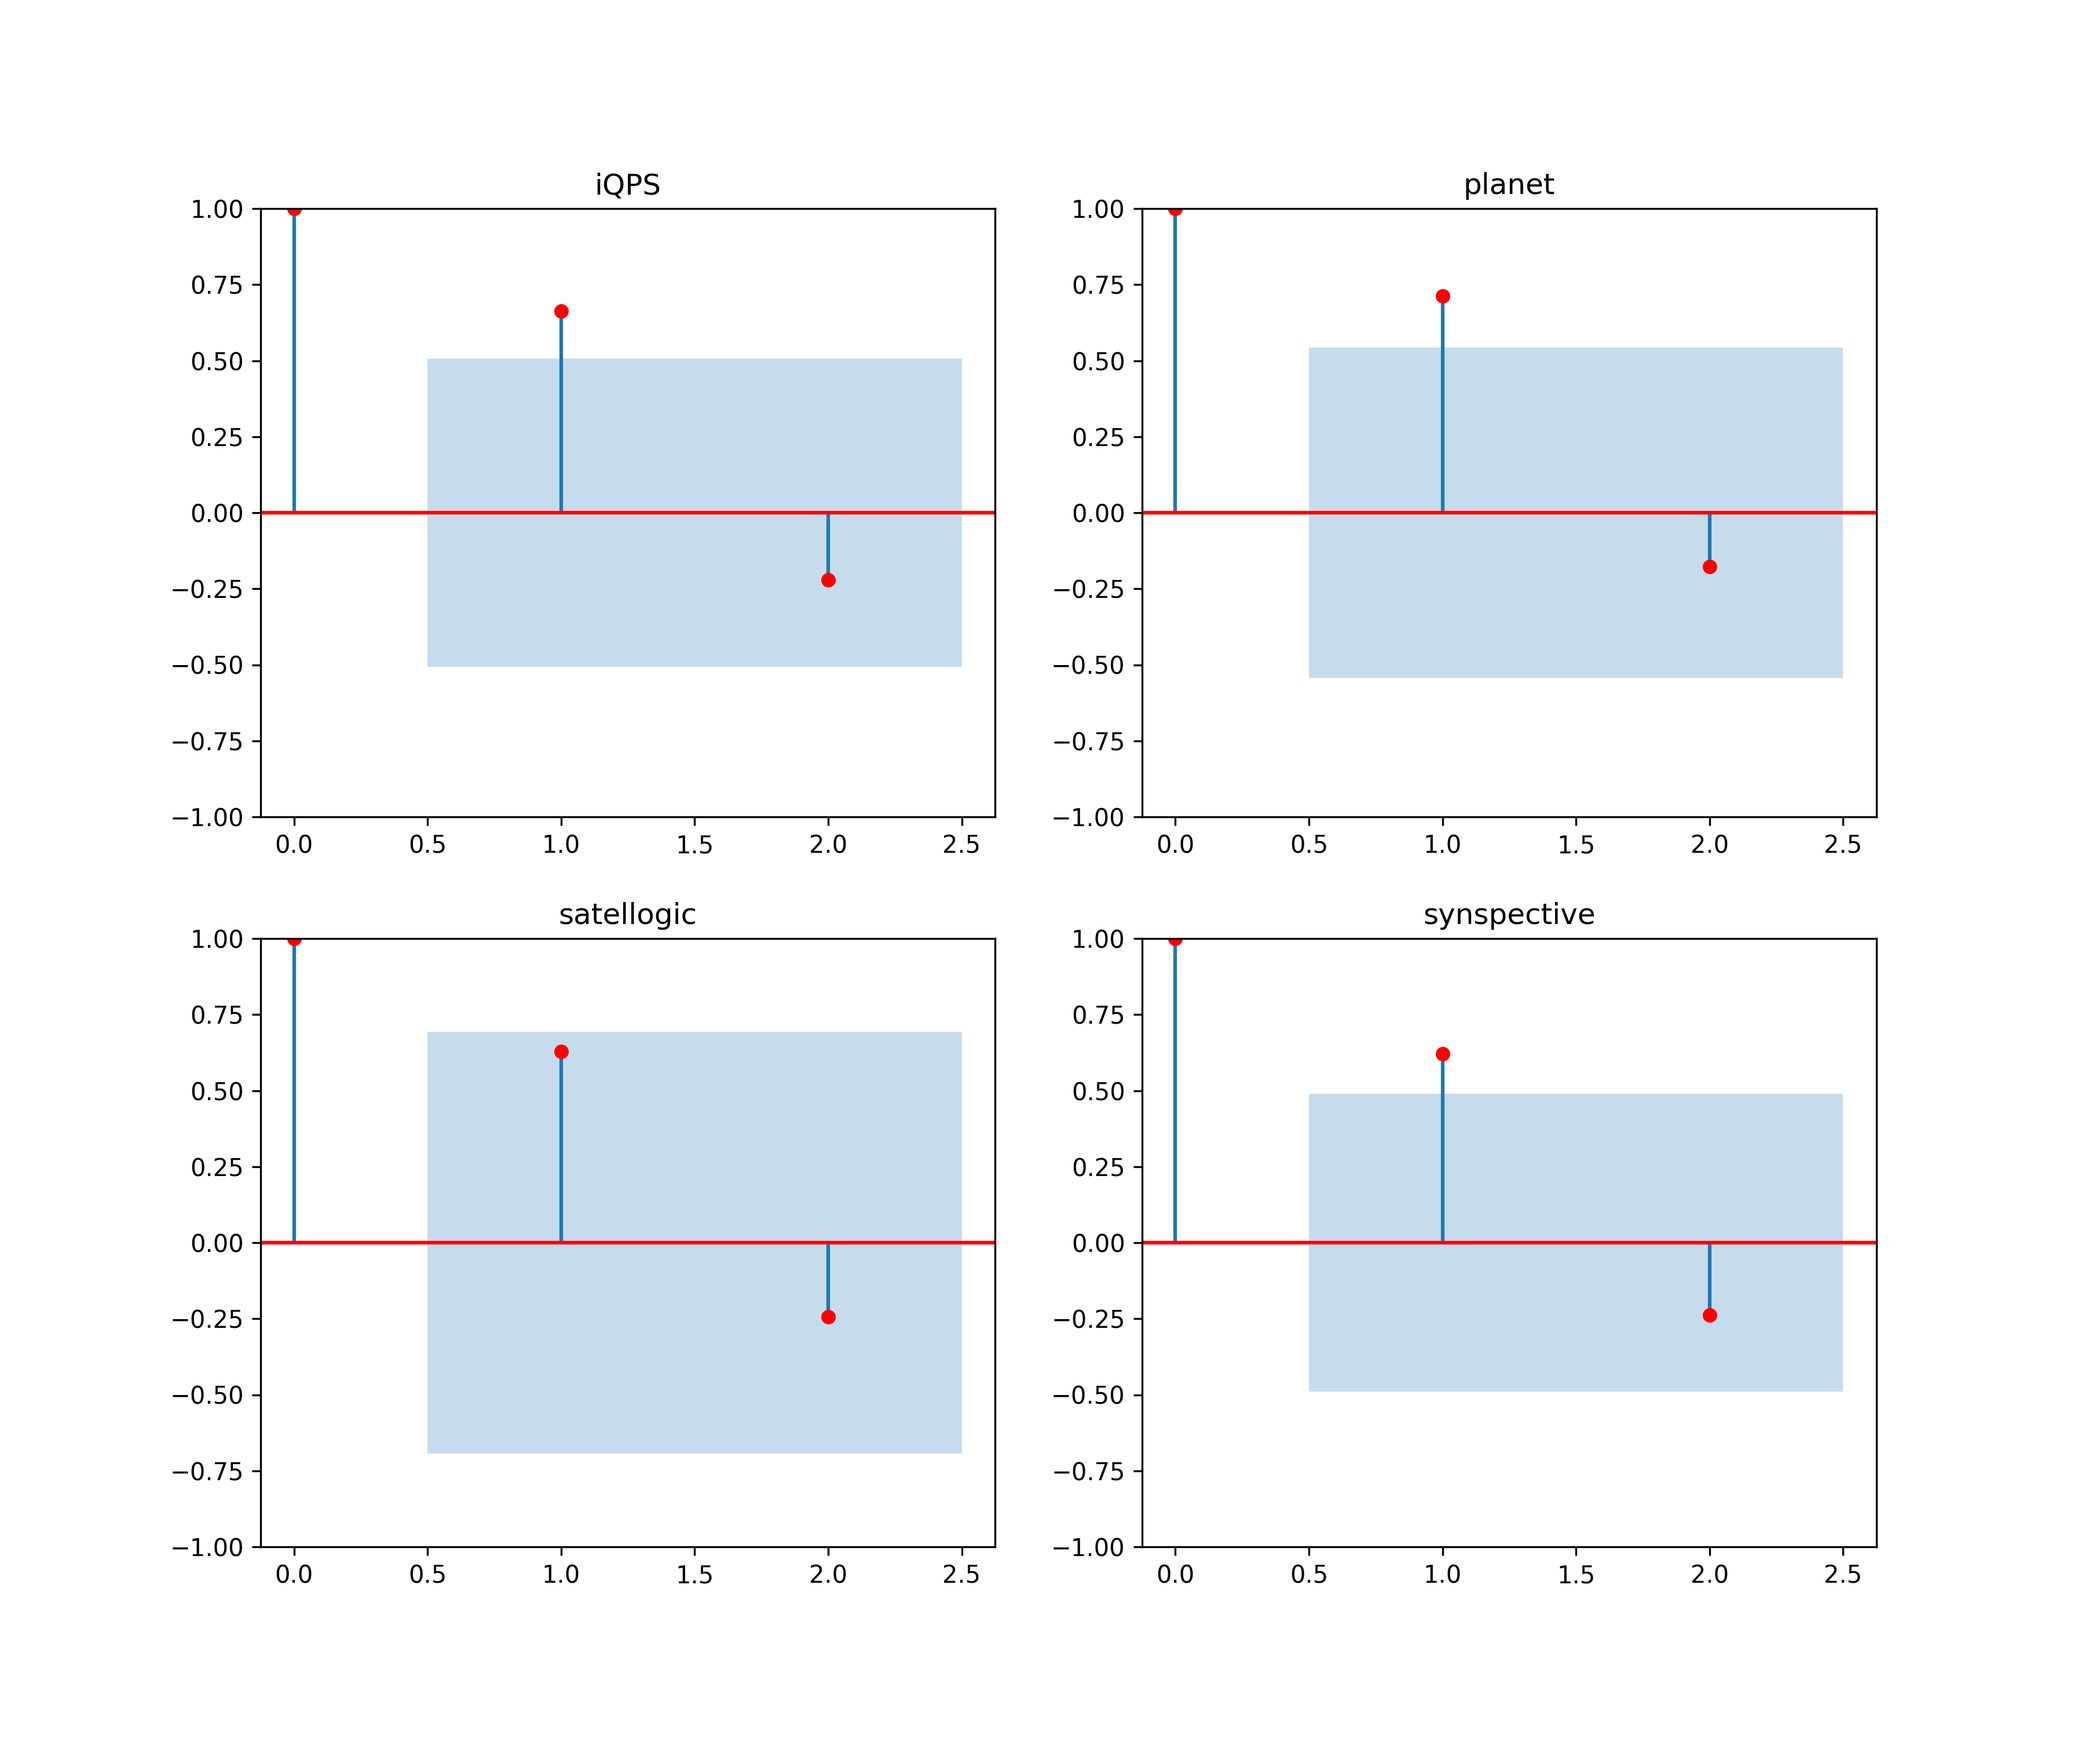
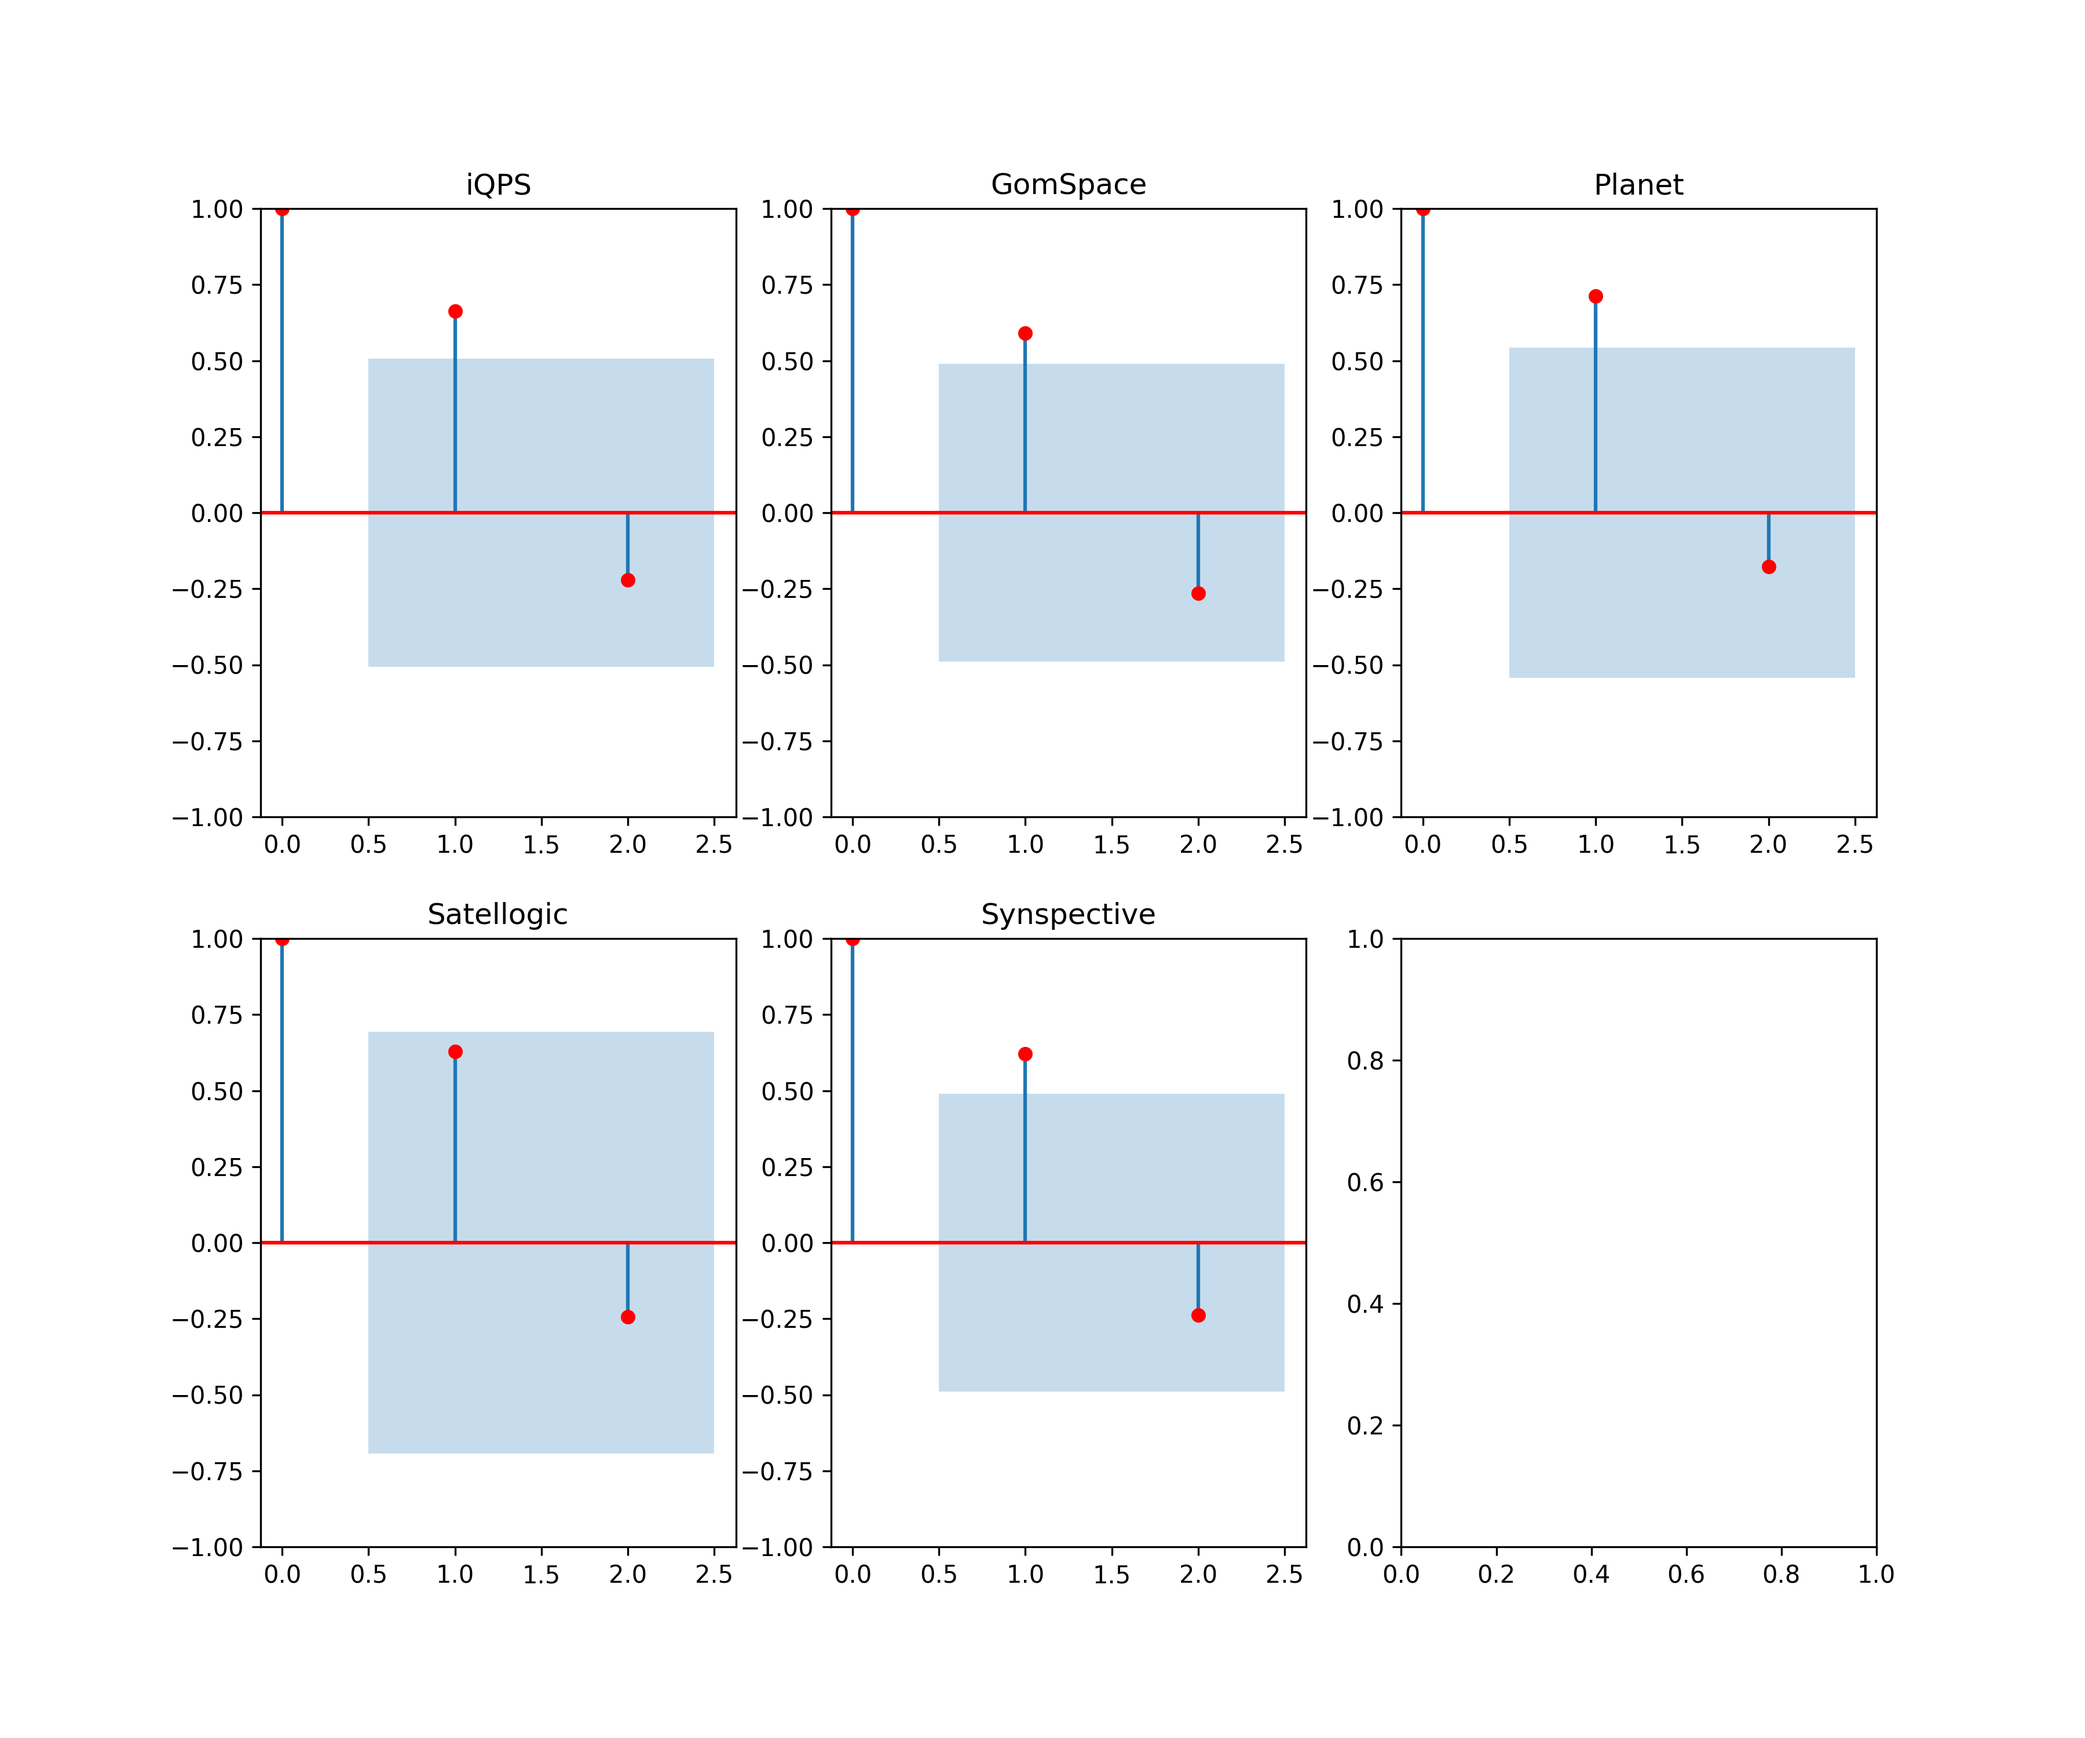
[ADD] update all figures with GomSpace data

diff --git a/src/process.py b/src/process.py
@@ -49,7 +49,7 @@ def transform_financial_metrics(company, filtered_data):
         "diffLogLiabilities": diffLogLiabilities,
         "diffLogEquity": diffLogEquity
     }
-    if company == "synspective":
+    if company == "Synspective":
             print("Not enough revenue data")
     else:
         revenue = filtered_data["Revenue"].values.astype(int)
@@ -77,18 +77,18 @@ exchange_rate_file = './financial_data/dollar-yen-exchange-rate-history.csv'
 exchange_rate = pd.read_csv(exchange_rate_file, header=None, names=['Date', 'Value'])
 exchange_rate['Date'] = pd.to_datetime(exchange_rate['Date'])
 
-fig1, ax1 = plt.subplots(2, 2, figsize=(12, 10), dpi=300)
-fig2, ax2 = plt.subplots(2, 2, figsize=(12, 10), dpi=300)
-fig21, ax21 = plt.subplots(2, 2, figsize=(12, 10), dpi=300)
-fig22, ax22 = plt.subplots(2, 2, figsize=(12, 10), dpi=300)
-fig23, ax23 = plt.subplots(2, 2, figsize=(12, 10), dpi=300)
-fig24, ax24 = plt.subplots(2, 2, figsize=(12, 10), dpi=300)
-fig25, ax25 = plt.subplots(2, 2, figsize=(12, 10), dpi=300)
-fig26, ax26 = plt.subplots(2, 2, figsize=(12, 10), dpi=300)
-fig27, ax27 = plt.subplots(2, 2, figsize=(12, 10), dpi=300)
-fig28, ax28 = plt.subplots(2, 2, figsize=(12, 10), dpi=300)
-fig29, ax29 = plt.subplots(2, 2, figsize=(12, 10), dpi=300)
-fig30, ax30 = plt.subplots(2, 2, figsize=(12, 10), dpi=300)
+fig1, ax1 = plt.subplots(2, 3, figsize=(12, 10), dpi=300)
+fig2, ax2 = plt.subplots(2, 3, figsize=(12, 10), dpi=300)
+fig21, ax21 = plt.subplots(2, 3, figsize=(12, 10), dpi=300)
+fig22, ax22 = plt.subplots(2, 3, figsize=(12, 10), dpi=300)
+fig23, ax23 = plt.subplots(2, 3, figsize=(12, 10), dpi=300)
+fig24, ax24 = plt.subplots(2, 3, figsize=(12, 10), dpi=300)
+fig25, ax25 = plt.subplots(2, 3, figsize=(12, 10), dpi=300)
+fig26, ax26 = plt.subplots(2, 3, figsize=(12, 10), dpi=300)
+fig27, ax27 = plt.subplots(2, 3, figsize=(12, 10), dpi=300)
+fig28, ax28 = plt.subplots(2, 3, figsize=(12, 10), dpi=300)
+fig29, ax29 = plt.subplots(2, 3, figsize=(12, 10), dpi=300)
+fig30, ax30 = plt.subplots(2, 3, figsize=(12, 10), dpi=300)
 fig3, ax3 = plt.subplots(figsize=(10, 6), dpi=300)
 fig4, ax4 = plt.subplots(figsize=(10, 6), dpi=300)
 fig5, ax5 = plt.subplots(figsize=(10, 6), dpi=300)
@@ -115,24 +115,24 @@ for i, company in enumerate(company_metadata):
     transformed_data = transform_financial_metrics(company, filtered_data)
     company_color = np.asarray(company_metadata[company]["color"]) / 255 # normalized color coordinates
 
-    plot_acf(transformed_data["lnAssets"], lags=3, title=company, ax = ax1[i//2, i%2], color = 'red')
-    plot_pacf(transformed_data["lnAssets"], lags=2, title=company, ax = ax2[i//2, i%2], color = 'red')
-    plot_acf(transformed_data["lnLiabilities"], lags=3, title=company, ax = ax21[i//2, i%2], color = 'red')
-    plot_pacf(transformed_data["lnLiabilities"], lags=3, title=company, ax = ax22[i//2, i%2], color = 'red')
-    plot_acf(transformed_data["lnEquity"], lags=3, title=company, ax = ax23[i//2, i%2], color = 'red')
-    plot_pacf(transformed_data["lnEquity"], lags=3, title=company, ax = ax24[i//2, i%2], color = 'red')
-    plot_acf(transformed_data["diffAssets"], lags=3, title=company, ax = ax25[i//2, i%2], color = 'red')
-    plot_pacf(transformed_data["diffAssets"], lags=2, title=company, ax = ax26[i//2, i%2], color = 'red')
-    plot_acf(transformed_data["diffLiabilities"], lags=3, title=company, ax = ax27[i//2, i%2], color = 'red')
-    plot_pacf(transformed_data["diffLiabilities"], lags=2, title=company, ax = ax28[i//2, i%2], color = 'red')
-    plot_acf(transformed_data["diffEquity"], lags=3, title=company, ax = ax29[i//2, i%2], color = 'red')
-    plot_pacf(transformed_data["diffEquity"], lags=2, title=company, ax = ax30[i//2, i%2], color = 'red')
+    plot_acf(transformed_data["lnAssets"], lags=3, title=company, ax = ax1[i//3, i%3], color = 'red')
+    plot_pacf(transformed_data["lnAssets"], lags=2, title=company, ax = ax2[i//3, i%3], color = 'red')
+    plot_acf(transformed_data["lnLiabilities"], lags=3, title=company, ax = ax21[i//3, i%3], color = 'red')
+    plot_pacf(transformed_data["lnLiabilities"], lags=3, title=company, ax = ax22[i//3, i%3], color = 'red')
+    plot_acf(transformed_data["lnEquity"], lags=3, title=company, ax = ax23[i//3, i%3], color = 'red')
+    plot_pacf(transformed_data["lnEquity"], lags=3, title=company, ax = ax24[i//3, i%3], color = 'red')
+    plot_acf(transformed_data["diffAssets"], lags=3, title=company, ax = ax25[i//3, i%3], color = 'red')
+    plot_pacf(transformed_data["diffAssets"], lags=2, title=company, ax = ax26[i//3, i%3], color = 'red')
+    plot_acf(transformed_data["diffLiabilities"], lags=3, title=company, ax = ax27[i//3, i%3], color = 'red')
+    plot_pacf(transformed_data["diffLiabilities"], lags=2, title=company, ax = ax28[i//3, i%3], color = 'red')
+    plot_acf(transformed_data["diffEquity"], lags=3, title=company, ax = ax29[i//3, i%3], color = 'red')
+    plot_pacf(transformed_data["diffEquity"], lags=2, title=company, ax = ax30[i//3, i%3], color = 'red')
 
     fig3 = plot_growth_rate(fig3, ax3, transformed_data, "growthAssets", company_metadata, company, 'Total Asset Growth Rate (%)')
     fig4 = plot_growth_rate(fig4, ax4, transformed_data, "growthLiabilities", company_metadata, company, 'Total Liabilities Growth Rate (%)')
     fig5 = plot_growth_rate(fig5, ax5, transformed_data, "growthEquity", company_metadata, company, 'Total Equity Growth Rate (%)')
 
-    if company == "synspective":
+    if company == "Synspective":
         continue
     else:
         fig6 = plot_kpis(fig6, ax6, transformed_data, "financialLeverage", company_metadata, company, 'Financial Leverage')

diff --git a/src/plot_utils.py b/src/plot_utils.py
@@ -7,7 +7,7 @@ def plot_growth_rate(fig, ax, data, key, company_metadata, company, ylabel):
     ax.set_ylabel(ylabel, fontsize=16)
     company_color = np.array(company_metadata[company]["color"]) / 255
     ax.plot(data["Quarter"].values[1:], data[key], color=company_color, linestyle=company_metadata[company]["style"], label=company, linewidth=10)
-    ax.legend(ncol=4, bbox_to_anchor=(.95, -0.15), fancybox=True, title="Company", fontsize='16', frameon=True)
+    ax.legend(ncol=4, bbox_to_anchor=(0.98, -0.15), fancybox=True, title="Company", fontsize='16', frameon=True)
     fig.tight_layout()
     box = ax.get_position()
     ax.set_position([box.x0, box.y0 + box.height * 0.2, box.width, box.height * 0.8])
@@ -20,7 +20,7 @@ def plot_kpis(fig, ax, data, key, company_metadata, company, ylabel):
     ax.set_ylabel(ylabel, fontsize=16)
     company_color = np.array(company_metadata[company]["color"]) / 255
     ax.plot(data["Quarter"].values[:], data[key], color=company_color, linestyle=company_metadata[company]["style"], label=company, linewidth=10)
-    ax.legend(ncol=4, bbox_to_anchor=(0.8, -0.15), fancybox=True, title="Company", fontsize='16', frameon=True)
+    ax.legend(ncol=4, bbox_to_anchor=(0.93, -0.15), fancybox=True, title="Company", fontsize='16', frameon=True)
     fig.tight_layout()
     box = ax.get_position()
     ax.set_position([box.x0, box.y0 + box.height * 0.2, box.width, box.height * 0.8])
